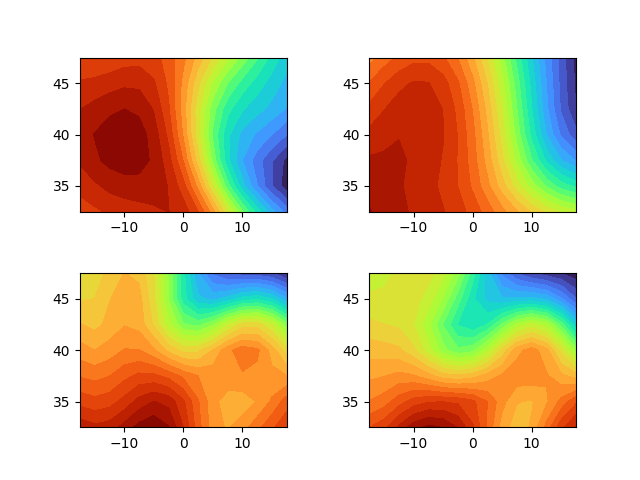
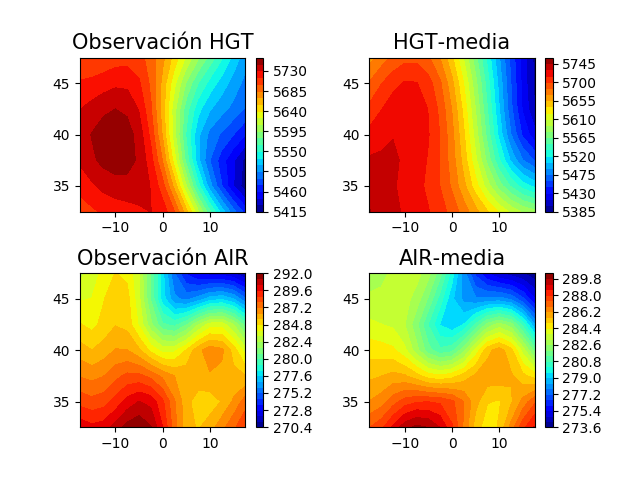
titles and colorbars

diff --git a/P4/p4_rubiomadrigalcelia.py b/P4/p4_rubiomadrigalcelia.py
@@ -24,11 +24,7 @@ from netCDF4 import Dataset
 from sklearn.decomposition import PCA
 
 LEV = 30
-import matplotlib.cm
-from matplotlib.colors import ListedColormap
-turbo_colormap_data = [[0.18995,0.07176,0.23217],[0.19483,0.08339,0.26149],[0.19956,0.09498,0.29024],[0.20415,0.10652,0.31844],[0.20860,0.11802,0.34607],[0.21291,0.12947,0.37314],[0.21708,0.14087,0.39964],[0.22111,0.15223,0.42558],[0.22500,0.16354,0.45096],[0.22875,0.17481,0.47578],[0.23236,0.18603,0.50004],[0.23582,0.19720,0.52373],[0.23915,0.20833,0.54686],[0.24234,0.21941,0.56942],[0.24539,0.23044,0.59142],[0.24830,0.24143,0.61286],[0.25107,0.25237,0.63374],[0.25369,0.26327,0.65406],[0.25618,0.27412,0.67381],[0.25853,0.28492,0.69300],[0.26074,0.29568,0.71162],[0.26280,0.30639,0.72968],[0.26473,0.31706,0.74718],[0.26652,0.32768,0.76412],[0.26816,0.33825,0.78050],[0.26967,0.34878,0.79631],[0.27103,0.35926,0.81156],[0.27226,0.36970,0.82624],[0.27334,0.38008,0.84037],[0.27429,0.39043,0.85393],[0.27509,0.40072,0.86692],[0.27576,0.41097,0.87936],[0.27628,0.42118,0.89123],[0.27667,0.43134,0.90254],[0.27691,0.44145,0.91328],[0.27701,0.45152,0.92347],[0.27698,0.46153,0.93309],[0.27680,0.47151,0.94214],[0.27648,0.48144,0.95064],[0.27603,0.49132,0.95857],[0.27543,0.50115,0.96594],[0.27469,0.51094,0.97275],[0.27381,0.52069,0.97899],[0.27273,0.53040,0.98461],[0.27106,0.54015,0.98930],[0.26878,0.54995,0.99303],[0.26592,0.55979,0.99583],[0.26252,0.56967,0.99773],[0.25862,0.57958,0.99876],[0.25425,0.58950,0.99896],[0.24946,0.59943,0.99835],[0.24427,0.60937,0.99697],[0.23874,0.61931,0.99485],[0.23288,0.62923,0.99202],[0.22676,0.63913,0.98851],[0.22039,0.64901,0.98436],[0.21382,0.65886,0.97959],[0.20708,0.66866,0.97423],[0.20021,0.67842,0.96833],[0.19326,0.68812,0.96190],[0.18625,0.69775,0.95498],[0.17923,0.70732,0.94761],[0.17223,0.71680,0.93981],[0.16529,0.72620,0.93161],[0.15844,0.73551,0.92305],[0.15173,0.74472,0.91416],[0.14519,0.75381,0.90496],[0.13886,0.76279,0.89550],[0.13278,0.77165,0.88580],[0.12698,0.78037,0.87590],[0.12151,0.78896,0.86581],[0.11639,0.79740,0.85559],[0.11167,0.80569,0.84525],[0.10738,0.81381,0.83484],[0.10357,0.82177,0.82437],[0.10026,0.82955,0.81389],[0.09750,0.83714,0.80342],[0.09532,0.84455,0.79299],[0.09377,0.85175,0.78264],[0.09287,0.85875,0.77240],[0.09267,0.86554,0.76230],[0.09320,0.87211,0.75237],[0.09451,0.87844,0.74265],[0.09662,0.88454,0.73316],[0.09958,0.89040,0.72393],[0.10342,0.89600,0.71500],[0.10815,0.90142,0.70599],[0.11374,0.90673,0.69651],[0.12014,0.91193,0.68660],[0.12733,0.91701,0.67627],[0.13526,0.92197,0.66556],[0.14391,0.92680,0.65448],[0.15323,0.93151,0.64308],[0.16319,0.93609,0.63137],[0.17377,0.94053,0.61938],[0.18491,0.94484,0.60713],[0.19659,0.94901,0.59466],[0.20877,0.95304,0.58199],[0.22142,0.95692,0.56914],[0.23449,0.96065,0.55614],[0.24797,0.96423,0.54303],[0.26180,0.96765,0.52981],[0.27597,0.97092,0.51653],[0.29042,0.97403,0.50321],[0.30513,0.97697,0.48987],[0.32006,0.97974,0.47654],[0.33517,0.98234,0.46325],[0.35043,0.98477,0.45002],[0.36581,0.98702,0.43688],[0.38127,0.98909,0.42386],[0.39678,0.99098,0.41098],[0.41229,0.99268,0.39826],[0.42778,0.99419,0.38575],[0.44321,0.99551,0.37345],[0.45854,0.99663,0.36140],[0.47375,0.99755,0.34963],[0.48879,0.99828,0.33816],[0.50362,0.99879,0.32701],[0.51822,0.99910,0.31622],[0.53255,0.99919,0.30581],[0.54658,0.99907,0.29581],[0.56026,0.99873,0.28623],[0.57357,0.99817,0.27712],[0.58646,0.99739,0.26849],[0.59891,0.99638,0.26038],[0.61088,0.99514,0.25280],[0.62233,0.99366,0.24579],[0.63323,0.99195,0.23937],[0.64362,0.98999,0.23356],[0.65394,0.98775,0.22835],[0.66428,0.98524,0.22370],[0.67462,0.98246,0.21960],[0.68494,0.97941,0.21602],[0.69525,0.97610,0.21294],[0.70553,0.97255,0.21032],[0.71577,0.96875,0.20815],[0.72596,0.96470,0.20640],[0.73610,0.96043,0.20504],[0.74617,0.95593,0.20406],[0.75617,0.95121,0.20343],[0.76608,0.94627,0.20311],[0.77591,0.94113,0.20310],[0.78563,0.93579,0.20336],[0.79524,0.93025,0.20386],[0.80473,0.92452,0.20459],[0.81410,0.91861,0.20552],[0.82333,0.91253,0.20663],[0.83241,0.90627,0.20788],[0.84133,0.89986,0.20926],[0.85010,0.89328,0.21074],[0.85868,0.88655,0.21230],[0.86709,0.87968,0.21391],[0.87530,0.87267,0.21555],[0.88331,0.86553,0.21719],[0.89112,0.85826,0.21880],[0.89870,0.85087,0.22038],[0.90605,0.84337,0.22188],[0.91317,0.83576,0.22328],[0.92004,0.82806,0.22456],[0.92666,0.82025,0.22570],[0.93301,0.81236,0.22667],[0.93909,0.80439,0.22744],[0.94489,0.79634,0.22800],[0.95039,0.78823,0.22831],[0.95560,0.78005,0.22836],[0.96049,0.77181,0.22811],[0.96507,0.76352,0.22754],[0.96931,0.75519,0.22663],[0.97323,0.74682,0.22536],[0.97679,0.73842,0.22369],[0.98000,0.73000,0.22161],[0.98289,0.72140,0.21918],[0.98549,0.71250,0.21650],[0.98781,0.70330,0.21358],[0.98986,0.69382,0.21043],[0.99163,0.68408,0.20706],[0.99314,0.67408,0.20348],[0.99438,0.66386,0.19971],[0.99535,0.65341,0.19577],[0.99607,0.64277,0.19165],[0.99654,0.63193,0.18738],[0.99675,0.62093,0.18297],[0.99672,0.60977,0.17842],[0.99644,0.59846,0.17376],[0.99593,0.58703,0.16899],[0.99517,0.57549,0.16412],[0.99419,0.56386,0.15918],[0.99297,0.55214,0.15417],[0.99153,0.54036,0.14910],[0.98987,0.52854,0.14398],[0.98799,0.51667,0.13883],[0.98590,0.50479,0.13367],[0.98360,0.49291,0.12849],[0.98108,0.48104,0.12332],[0.97837,0.46920,0.11817],[0.97545,0.45740,0.11305],[0.97234,0.44565,0.10797],[0.96904,0.43399,0.10294],[0.96555,0.42241,0.09798],[0.96187,0.41093,0.09310],[0.95801,0.39958,0.08831],[0.95398,0.38836,0.08362],[0.94977,0.37729,0.07905],[0.94538,0.36638,0.07461],[0.94084,0.35566,0.07031],[0.93612,0.34513,0.06616],[0.93125,0.33482,0.06218],[0.92623,0.32473,0.05837],[0.92105,0.31489,0.05475],[0.91572,0.30530,0.05134],[0.91024,0.29599,0.04814],[0.90463,0.28696,0.04516],[0.89888,0.27824,0.04243],[0.89298,0.26981,0.03993],[0.88691,0.26152,0.03753],[0.88066,0.25334,0.03521],[0.87422,0.24526,0.03297],[0.86760,0.23730,0.03082],[0.86079,0.22945,0.02875],[0.85380,0.22170,0.02677],[0.84662,0.21407,0.02487],[0.83926,0.20654,0.02305],[0.83172,0.19912,0.02131],[0.82399,0.19182,0.01966],[0.81608,0.18462,0.01809],[0.80799,0.17753,0.01660],[0.79971,0.17055,0.01520],[0.79125,0.16368,0.01387],[0.78260,0.15693,0.01264],[0.77377,0.15028,0.01148],[0.76476,0.14374,0.01041],[0.75556,0.13731,0.00942],[0.74617,0.13098,0.00851],[0.73661,0.12477,0.00769],[0.72686,0.11867,0.00695],[0.71692,0.11268,0.00629],[0.70680,0.10680,0.00571],[0.69650,0.10102,0.00522],[0.68602,0.09536,0.00481],[0.67535,0.08980,0.00449],[0.66449,0.08436,0.00424],[0.65345,0.07902,0.00408],[0.64223,0.07380,0.00401],[0.63082,0.06868,0.00401],[0.61923,0.06367,0.00410],[0.60746,0.05878,0.00427],[0.59550,0.05399,0.00453],[0.58336,0.04931,0.00486],[0.57103,0.04474,0.00529],[0.55852,0.04028,0.00579],[0.54583,0.03593,0.00638],[0.53295,0.03169,0.00705],[0.51989,0.02756,0.00780],[0.50664,0.02354,0.00863],[0.49321,0.01963,0.00955],[0.47960,0.01583,0.01055]]
-matplotlib.cm.register_cmap('turbo', cmap=ListedColormap(turbo_colormap_data))
-CMAP = "turbo"
+CMAP = "jet"
 
 
 f = Dataset("air.2021.nc", "r", format="NETCDF4")
@@ -80,7 +76,8 @@ lons[lons >= 180] -= 360
 """
 Distribución espacial de la temperatura en el nivel de 500hPa, para el primer día
 """
-plt.contourf(lons, lats, air21[0, 0, :, :], cmap=CMAP, levels=LEV)
+cs = plt.contourf(lons, lats, air21[0, 0, :, :], cmap=CMAP, levels=LEV)
+plt.colorbar(cs)
 plt.savefig("1")
 
 hgt21b = hgt21[:, level == 500.0, :, :].reshape(len(time21), len(lats) * len(lons))
@@ -98,8 +95,10 @@ fig = plt.figure()
 fig.subplots_adjust(hspace=0.4, wspace=0.4)
 for i in range(4):
     ax = fig.add_subplot(2, 2, i + 1)
-    ax.text(0.5, 90, "PCA-" + str(i), fontsize=15, ha="center")
-    plt.contourf(lons, lats, Element_pca0[i, :, :], cmap=CMAP, levels=LEV)
+    ax.set_title("PCA-" + str(i), fontsize=15, ha="center")
+    cs = plt.contourf(lons, lats, Element_pca0[i, :, :], cmap=CMAP, levels=LEV)
+    fig.colorbar(cs, ax=ax)
+
 plt.savefig("2")
 
 
@@ -149,23 +148,27 @@ fig = plt.figure()
 fig.subplots_adjust(hspace=0.4, wspace=0.4)
 
 ax = fig.add_subplot(2, 2, 1)
-ax.text(0.5, 90, "Observación HGT", fontsize=15, ha="center")
+ax.set_title("Observación HGT", fontsize=15, ha="center")
 plotted = hgt_0[level==500.,:,:]
-plt.contourf(lons_sub, lats_sub, plotted[0], cmap=CMAP, levels=LEV)
+cs = plt.contourf(lons_sub, lats_sub, plotted[0], cmap=CMAP, levels=LEV)
+fig.colorbar(cs, ax=ax)
 
 ax = fig.add_subplot(2, 2, 2)
-ax.text(0.5, 90, "HGT-media", fontsize=15, ha="center")
+ax.set_title("HGT-media", fontsize=15, ha="center")
 plotted = hgt_1[level==500.,:,:]
-plt.contourf(lons_sub, lats_sub, plotted[0], cmap=CMAP, levels=LEV)
+cs = plt.contourf(lons_sub, lats_sub, plotted[0], cmap=CMAP, levels=LEV)
+fig.colorbar(cs, ax=ax)
 
 ax = fig.add_subplot(2, 2, 3)
-ax.text(0.5, 90, "Observación AIR", fontsize=15, ha="center")
+ax.set_title("Observación AIR", fontsize=15, ha="center")
 plotted = air_0[level==1000.,:,:]
-plt.contourf(lons_sub, lats_sub, plotted[0], cmap=CMAP, levels=LEV)
+cs = plt.contourf(lons_sub, lats_sub, plotted[0], cmap=CMAP, levels=LEV)
+fig.colorbar(cs, ax=ax)
 
 ax = fig.add_subplot(2, 2, 4)
-ax.text(0.5, 90, "AIR-media", fontsize=15, ha="center")
+ax.set_title("AIR-media", fontsize=15, ha="center")
 plotted = air_1[level==1000.,:,:]
-plt.contourf(lons_sub, lats_sub, plotted[0], cmap=CMAP, levels=LEV)
+cs = plt.contourf(lons_sub, lats_sub, plotted[0], cmap=CMAP, levels=LEV)
+fig.colorbar(cs, ax=ax)
 
 plt.savefig("3")
